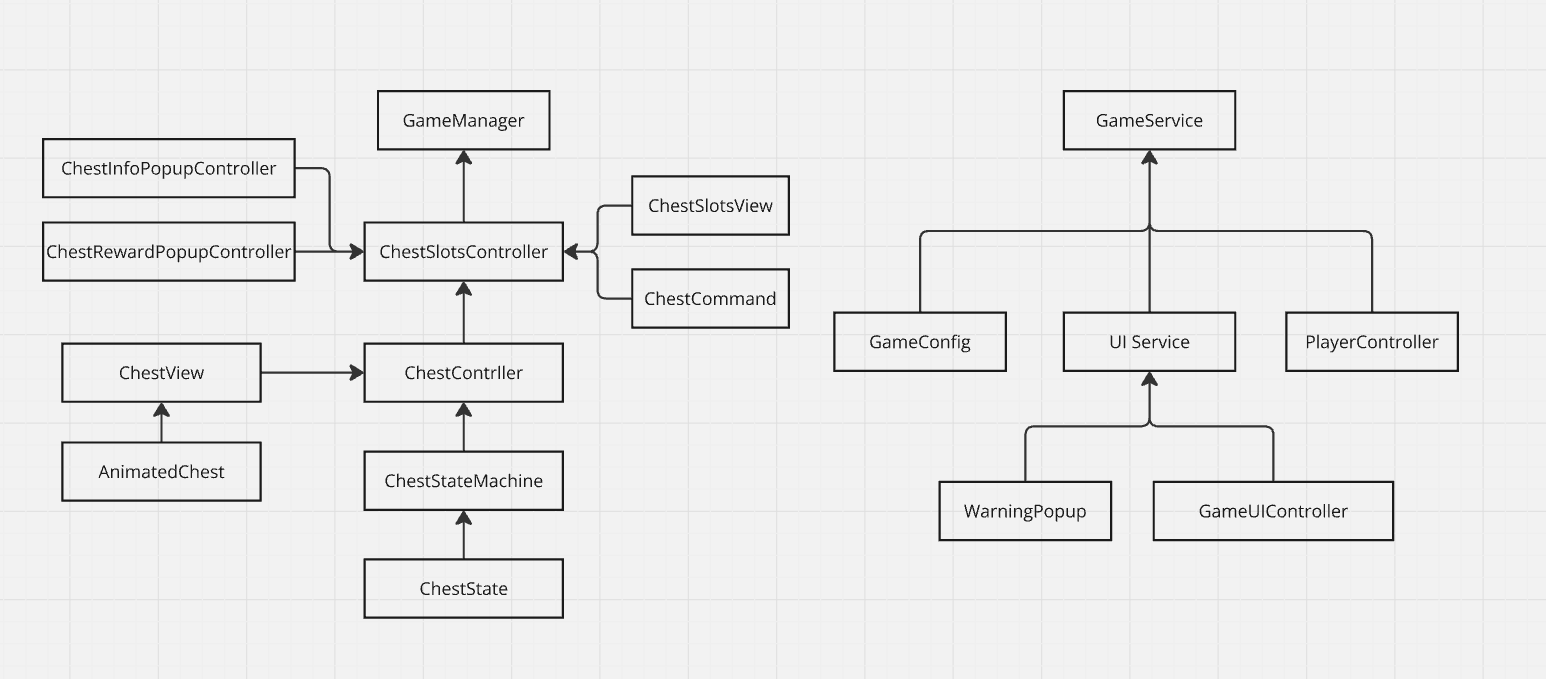
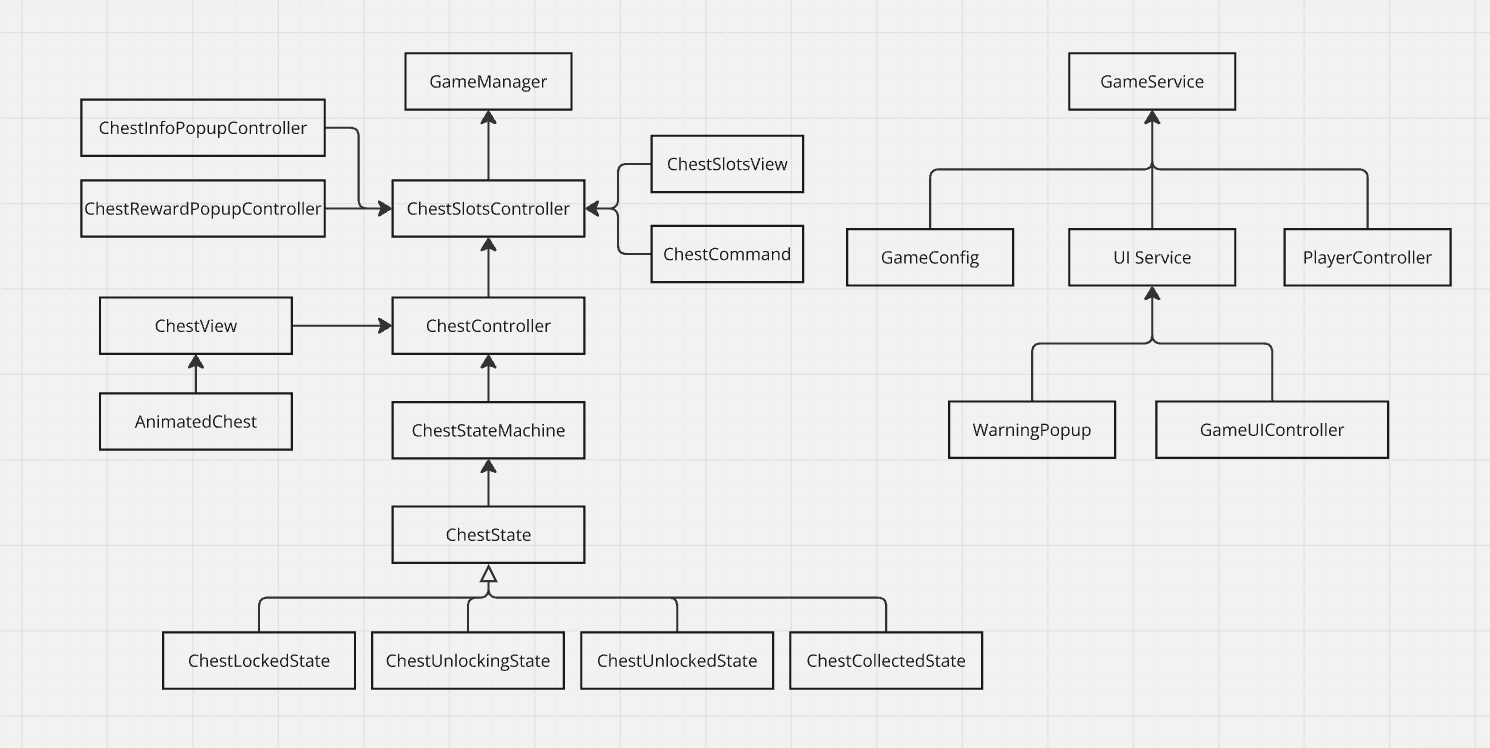
Updated readme

diff --git a/ChestSystem/Assets/Scripts/Chests/ChestSlotsController.cs b/ChestSystem/Assets/Scripts/Chests/ChestSlotsController.cs
@@ -1,4 +1,4 @@
-using System.Collections;
+#nullable enable
 using System.Collections.Generic;
 using UnityEngine;
 
@@ -86,7 +86,7 @@ public class ChestSlotsController
                 break;
             case ChestAction.UnlockNow:
                 lastComand = new ChestForceUnlockCommand(chestSlots[chestSlotID]);
-                if(GameService.Instance.PlayerController.GetGems() < chestSlots[chestSlotID].GetGemsNeededToOpen())
+                if(GameService.Instance.PlayerController.GetGems() < chestSlots[chestSlotID]?.GetGemsNeededToOpen())
                 {
                     GameService.Instance.UIService.WarningPopup.Show("Not enough gems", 1.0f);
                 }
@@ -112,7 +112,7 @@ public class ChestSlotsController
     private void OnChestCollected(int slotId, int coinReward, int gemReward)
     {
         chestRewardPopupController.Show(coinReward, gemReward);
-        chestSlots[slotId].DestroyView();
+        chestSlots[slotId]?.DestroyView();
         chestSlots[slotId] = null;
     }
 }

diff --git a/README.md b/README.md
@@ -10,18 +10,22 @@ https://github.com/user-attachments/assets/966ba0fd-18b7-40ee-a14b-3ea8836766d8
 ![Block diagram](./classDiagram/classDiagram.png)
 
 ### ChestSlotsController
+`ChestSlotsController` controls chest slots and managing chests in the chest slots alongside `ChestSlotsView`. Provides interfaces for other parts of the code for adding/removing chests and handling interactions with chest slots. Triggers popups for chest info or reward info. Also serves as a command invoker for `ChestCommand`s.
 
 ### ChestController
-
+Manages the chest's appearnce with `ChestView` and contains the `ChestStateMachine`. Provides interfaces for managing chest states and handling user interactions with chests. It contains an instance of `ChestSO` scriptable object.
 
 ### ChestView and AnimatedChest
+Controlled by the `ChestController`, `ChestView` manages how the chest state is displayed. `ChestView` contains `AnimatedChest`, that defines how the chest looks in the chest view. ChestView uses ans instance of scriptable object `ChestSO` during initialization. `ChestSO` defines chest properties like rarity, appearance, unlock duration etc.
 
-### ChestStateMachine and ChestState 
+### ChestStateMachine and ChestState
+`ChestStateMachine` manages the state of `ChestController` that can assume `ChestLockedState`, `ChestUnlockingState`, `ChestUnlockedState`, `ChestCollectedState`, which implement the interface `ChestState`.
 
 ### ChestCommand
+Abstract class that implements `ICommand` for chest related commands. `ChestCollectCommand`, `ChestForceUnlockCommand`, `ChestStartUnlockingCommand` derive from this class.
 
 ### GameConfig
-Hold game's global config constants.
+Holds game's global config constants.
 
 ### UI service
 `UIService` class is a singleton that manages warning popups and game's main UI.
